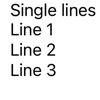
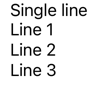
Rework reference variant handling to allow for more complex variant determination.

Changed region(s): [[0.87, 0.06, 0.96, 0.18]]

diff --git a/testbed/tests/widgets/test_canvas.py b/testbed/tests/widgets/test_canvas.py
@@ -222,35 +222,14 @@ async def test_image_data(canvas, probe):
 
 def assert_reference(probe, reference, threshold=0.0):
     """Assert that the canvas currently matches a reference image, within an RMS threshold"""
-
-    # Some tests can be ignored on some platforms, because the behavior is implemented,
-    # but known to be problematic. Try to invoke a test method on the probe; if that
-    # method raises a skip, we will have run the test code, but won't assert failue.
-    try:
-        getattr(probe, f"test_{reference}")()
-    except AttributeError:
-        pass
-
     # Get the canvas image.
     image = probe.get_image()
     scaled_image = image.resize((100, 100))
 
-    # Look for a platform-specific reference image; if one doesn't exist,
-    # use a cross-platform reference image.
-    path = (
-        toga.App.app.paths.app
-        / "resources"
-        / "canvas"
-        / f"{reference}-{toga.platform.current_platform}.png"
-    )
-    if not path.exists():
-        path = toga.App.app.paths.app / "resources" / "canvas" / f"{reference}.png"
-
-    save_path = (
-        toga.App.app.paths.data
-        / "canvas"
-        / f"{reference}-{toga.platform.current_platform}.png"
-    )
+    # Look for a platform-specific reference variant.
+    reference_variant = probe.reference_variant(reference)
+    path = toga.App.app.paths.app / "resources" / "canvas" / f"{reference_variant}.png"
+    save_path = toga.App.app.paths.data / "canvas" / f"{reference_variant}.png"
 
     # If a reference image exists, scale the image to the same size as the reference,
     # and do an MSE comparison on every pixel in 0-1 RGBA colorspace.
@@ -278,7 +257,7 @@ def assert_reference(probe, reference, threshold=0.0):
         print(f"Saving {save_path}")
         save_path.parent.mkdir(parents=True, exist_ok=True)
         scaled_image.save(save_path)
-        assert pytest.fail(f"Couldn't find {reference!r} reference image")
+        assert pytest.fail(f"Couldn't find {reference_variant!r} reference image")
 
 
 async def test_transparency(canvas, probe):
@@ -296,9 +275,7 @@ async def test_transparency(canvas, probe):
     canvas.context.fill(color=rgba(0x33, 0x66, 0x99, 0.5))
 
     await probe.redraw("Image with transparent content and background")
-    # Linux seems to have a different calculation for alpha transparency,
-    # so it has different reference image.
-    assert_reference(probe, "transparency", threshold=0.03)
+    assert_reference(probe, "transparency", threshold=0.0)
 
 
 async def test_paths(canvas, probe):
@@ -627,7 +604,7 @@ async def test_multiline_text(canvas, probe):
     "Multiline text can be measured and written"
     # Write a single line
     with canvas.context.Fill() as text_filler:
-        text_filler.write_text("Single lines", 10, 20)
+        text_filler.write_text("Single line", 10, 20)
 
     # Write multiple lines
     with canvas.context.Fill() as text_filler:

diff --git a/cocoa/tests_backend/widgets/canvas.py b/cocoa/tests_backend/widgets/canvas.py
@@ -1,3 +1,4 @@
+import platform
 from io import BytesIO
 
 from PIL import Image, ImageCms
@@ -10,6 +11,25 @@ from .base import SimpleProbe
 
 class CanvasProbe(SimpleProbe):
     native_class = NSView
+
+    def reference_variant(self, reference):
+        if reference == "transparency":
+            # New macOS laptops use an sRGB colorspace; older machines don't.
+            # If the captured image exposes an ICC profile, use the sRGB reference image.
+            image = Image.open(BytesIO(self.impl.get_image_data()))
+            if "icc_profile" in image.info:
+                return "transparency-macOS-sRGB"
+            else:
+                return "transparency-macOS"
+        elif reference == "multiline_text":
+            # Font leading varies between macOS versions, because of minor differences
+            # in the font definitions.
+            macOS_version = platform.platform().split("-")[1].split(".")[0]
+            return f"multiline_text-macOS-{macOS_version}"
+        elif reference in {"write_text"}:
+            # System font and default size is platform dependent.
+            return f"{reference}-macOS"
+        return reference
 
     def scale(self):
         # Cocoa's backing store might not be at display coordinates.

diff --git a/gtk/tests_backend/widgets/canvas.py b/gtk/tests_backend/widgets/canvas.py
@@ -11,11 +11,14 @@ from .base import SimpleProbe
 class CanvasProbe(SimpleProbe):
     native_class = Gtk.DrawingArea
 
-    def test_write_text(self):
-        pytest.skip("GTK canvas font and stroke handling isn't quite right")
-
-    def test_multiline_text(self):
-        pytest.skip("GTK canvas font and stroke handling isn't quite right")
+    def reference_variant(self, reference):
+        # Transparency calculations are platform specific
+        if reference in {"transparency"}:
+            return f"{reference}-linux"
+        elif reference in {"write_text", "multiline_text"}:
+            pytest.skip("GTK canvas font and stroke handling isn't quite right")
+        else:
+            return reference
 
     def scale(self):
         return 1

diff --git a/iOS/tests_backend/widgets/canvas.py b/iOS/tests_backend/widgets/canvas.py
@@ -23,6 +23,14 @@ class MockTouch(NSObject):
 class CanvasProbe(SimpleProbe):
     native_class = UIView
 
+    def reference_variant(self, reference):
+        # Transparency calculations are platform specific
+        # System fonts and sizes are platform specific
+        if reference in {"transparency", "write_text", "multiline_text"}:
+            return f"{reference}-iOS"
+        else:
+            return reference
+
     def scale(self):
         # Retina displays render images at a higher resolution than their reported size;
         # This is why @2x and @3x images are needed. This returns the scale factor.
